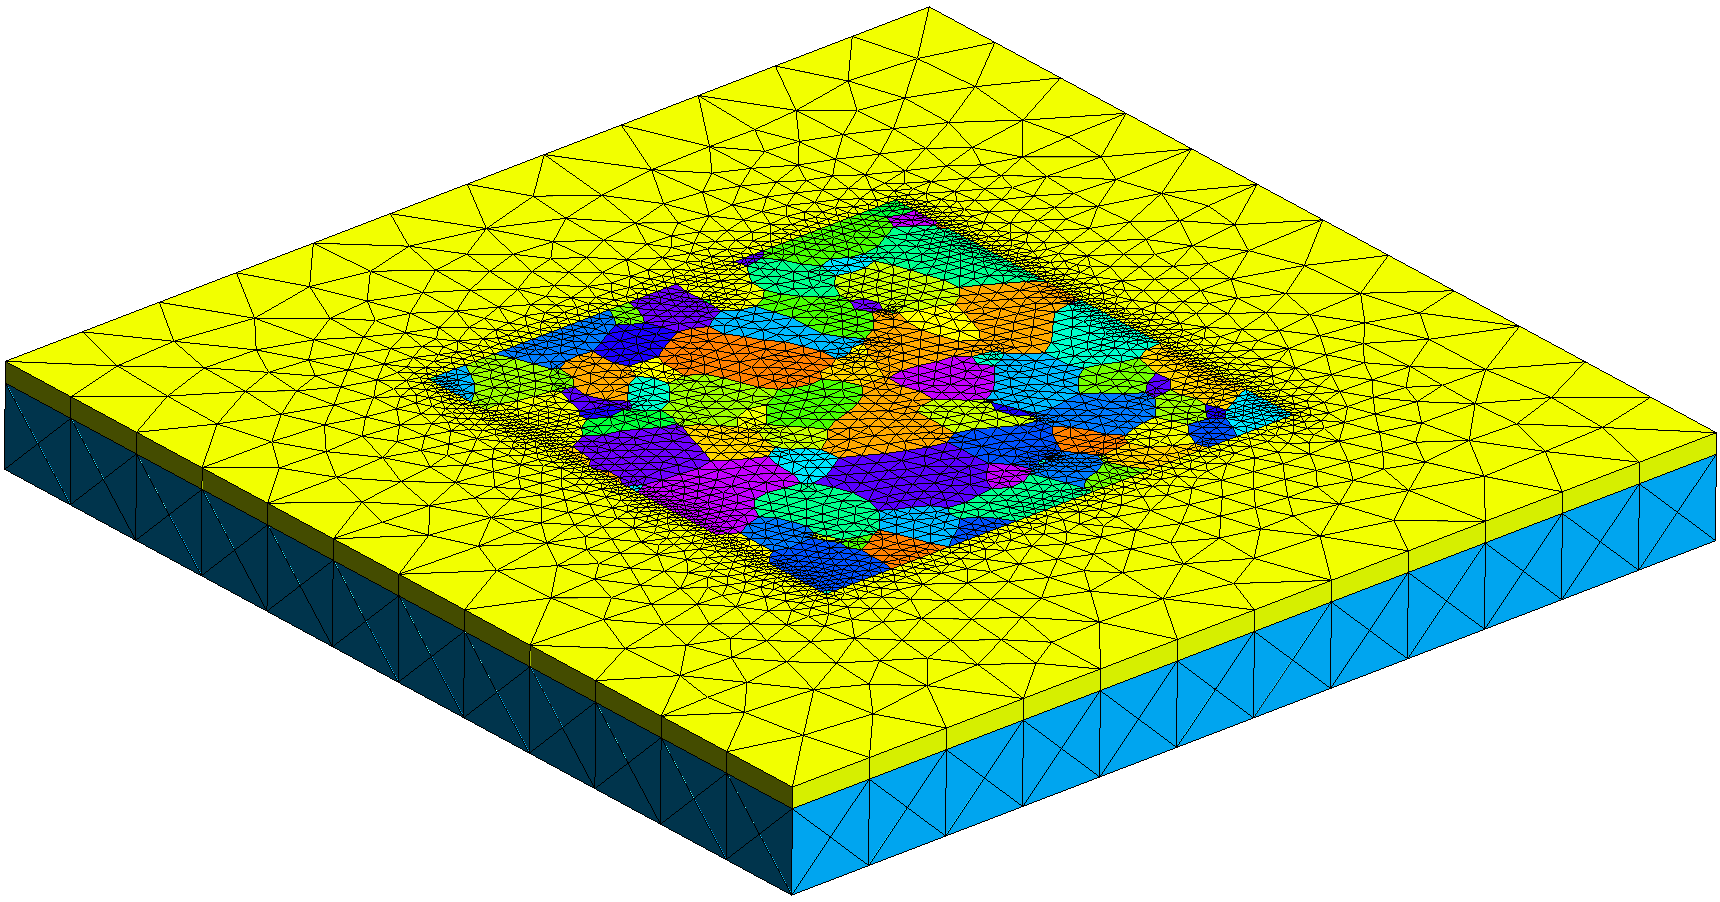
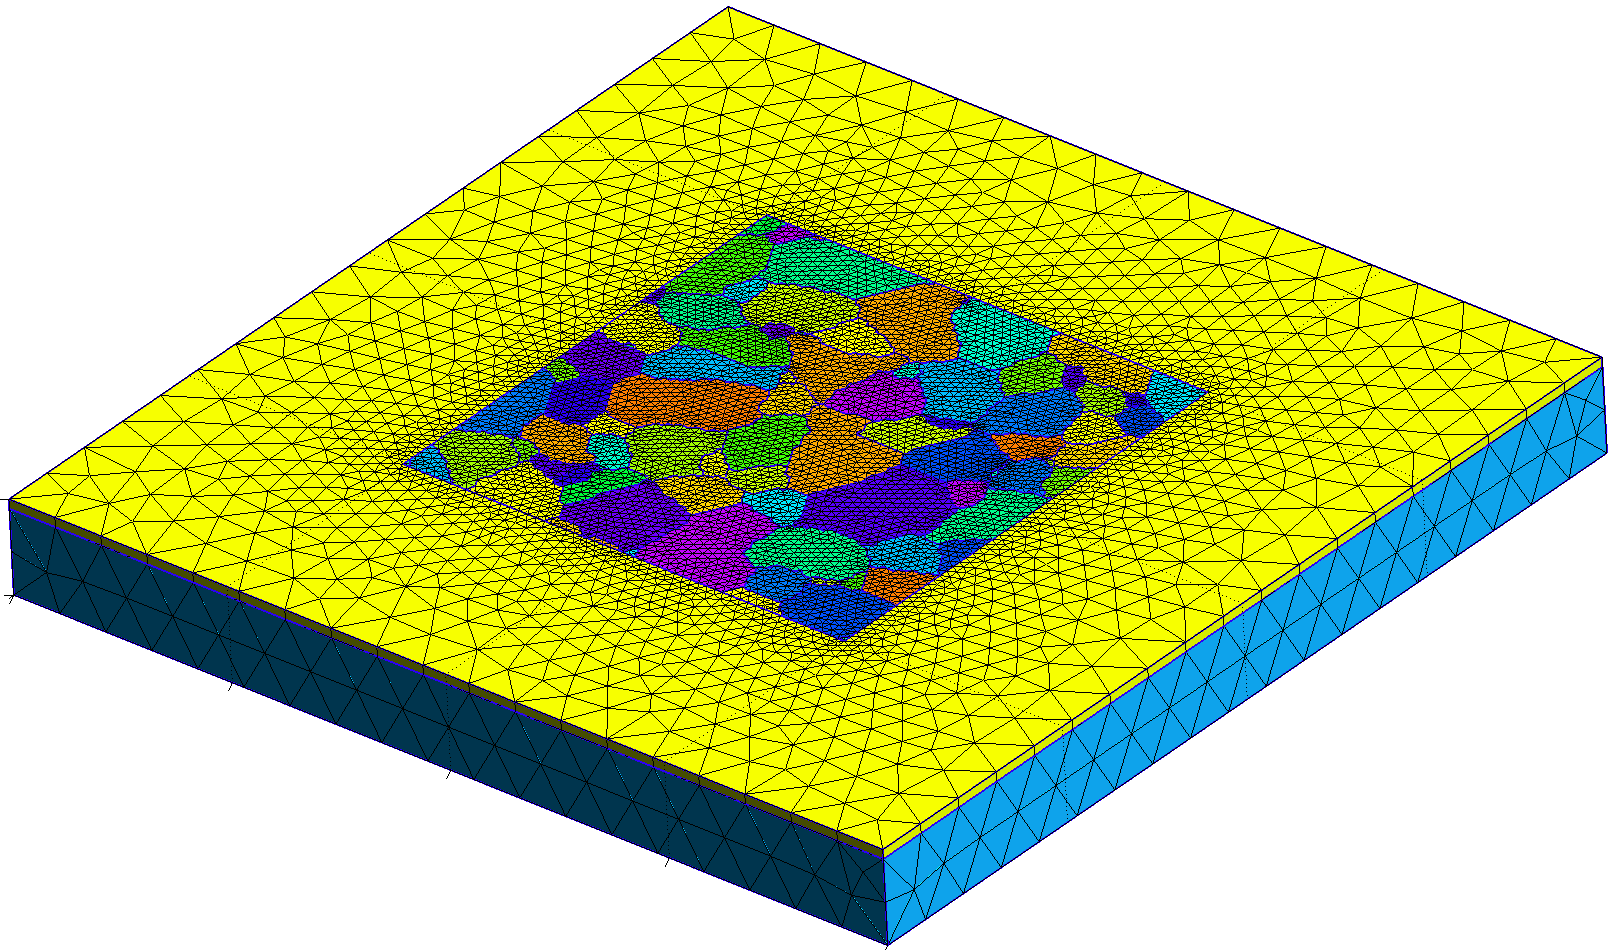
Change wrong format and missing medium in command Update image (with OCC kernel)

diff --git a/docs/Examples/titanium_medium.m b/docs/Examples/titanium_medium.m
@@ -2,4 +2,4 @@ mtexdata titanium
 grains=calcGrains(ebsd);
 grains=cond_smooth(grains);
 G=gmshGeo(grains);
-mesh(G,'titanium.geo','ElementSize',10,'gradient',5,'ElementType','Tri');
+mesh(G,'titanium-medium.msh','ElementSize',20,'medium',[2000 2000 200]);
